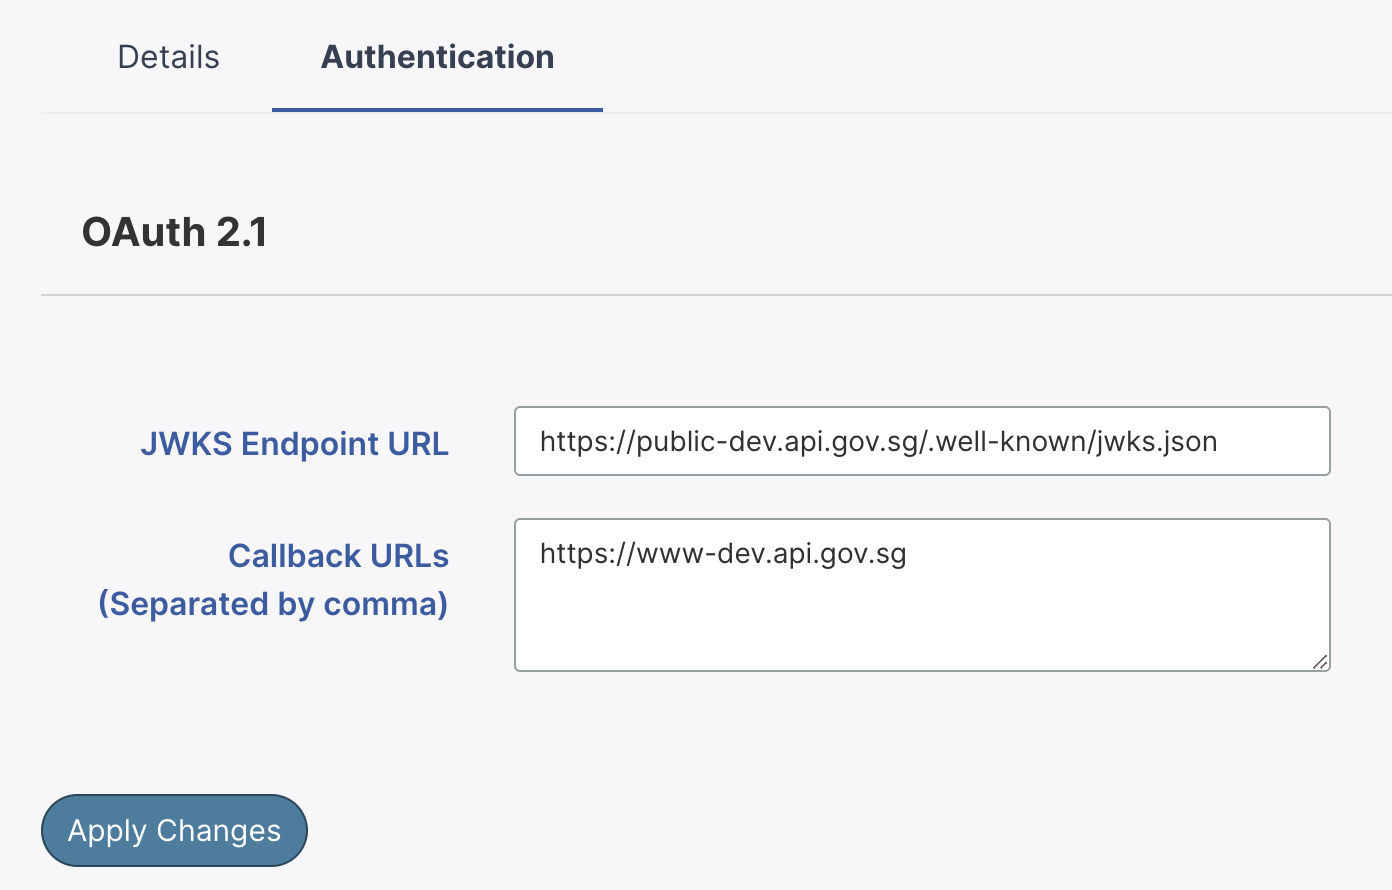
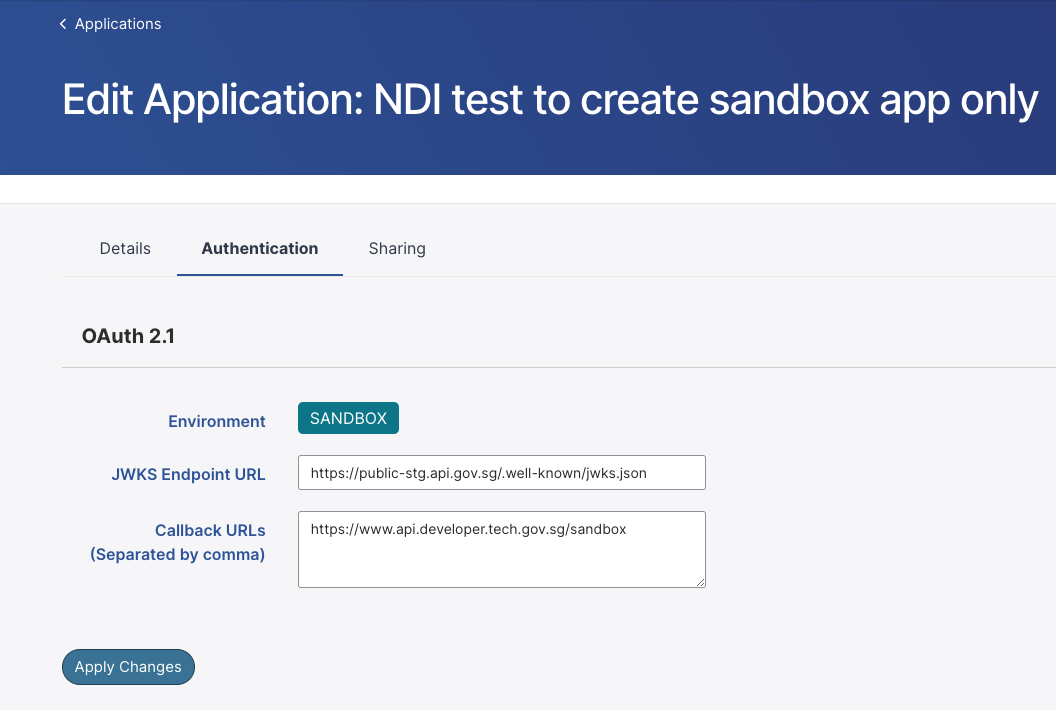
feat(developer): add feature to create app in prod and sandbox env

diff --git a/docs/dev/oauth.md b/docs/dev/oauth.md
@@ -2,30 +2,80 @@
 
 ## Onboard Application with Oauth 2.1
 
-1. **Apps** tab > Select **Application**
-2. View **Oauth 2.1** > Click on the link **Click here to onboard**
+1. **Apps** tab > Click **Application**
+
+2. Search for **Oauth 2.1** > Click on the link **Click here to onboard**
 
 ![Image](./image/oauth/onboard-oauth.png)
 
-4. Add **JWKS endpoint** and **callback URLs** > Click **Submit**
+3. Add **JWKS endpoint** and **callback URLs** > Click **Submit**
 
    - Make sure the app description is not empty.
    - Multiple callback URLs are allowed with the seperation of comma.
 
    ![Image](./image/oauth/onboarding-oauth.png)
 
-Once application is onboard successfully, the portal will redirect back to the application page with the following view in Oauth 2.1. The **login url (example)** are just demonstration on how the login url can be constructed with the supplied callbacks. **It cannot be use for production**.
+Once application is onboarded successfully, the portal will be redirected back to the application page with the following view in Oauth 2.1. The **login url (example)** are just demonstration on how the login url can be constructed with the supplied callbacks. **It cannot be use for production**.
 
 ![Image](./image/oauth/onboarded-oauth.png)
 
 ### Note:
 
-Once the application is onboard to OAuth 2.1 successfully, portal disable the function to delete the application. OAuth 2.1 status needs to be updated as "inactive" before deleting. View **Oauth 2.1** > Click on **Change Status to inactive**. Once the status become inactive, proceed to delete the application.
+Once the application is onboarded to OAuth 2.1 successfully, portal disable the function to delete the application. OAuth 2.1 status needs to be updated as "inactive" before deleting.
 
-## Update Oauth 2.1
+1. Search for **Oauth 2.1** > Click on **Change Status to inactive**.
+2. Once the status become inactive, proceed to delete the application.
+
+## Onboard Application with Oauth 2.1 (Sandbox)
+
+_Update: This feature will be available in end Feb 2023._
+
+SANDBOX is only available in PROD environment and the option will only be provided when onboarding to Oauth 2.1.
+
+1. **Apps** tab > Click **Application**
+
+2. Search for **Oauth 2.1** > Click on the link **Click here to onboard**.
+
+3. Check **sandbox checkbox** > Add **JWKS endpoint** and **callback URLs** > Click **Submit**.
+
+![Image](./image/oauth/sandbox-onboarding.png)
+
+3. Once application is onboarded successfully, the portal will be redirected back to the application page with SANDBOX tag in Oauth 2.1 section.
+
+### After onboarded to SANDBOX, you can create app in PROD with the same appplication.
+
+1. **Apps** tab > Click **Application**.
+
+2. Search for **Oauth 2.1** > Click **Create App in PROD**.
+
+![Image](./image/oauth/sandbox-create-prod.png)
+
+3. Add **JWKS endpoint** and **callback URLs** > uncheck **sandbox checkbox** (default option) > Click **Submit**.
+
+4. Once onboarded to Oauth 2.1 in both SANDBOX and PROD environment, you can toggle between SANDBOX and PROD to view the details and registered ID in **Apps** tab > Select **Application**.
+
+![Image](./image/oauth/sandbox-and-prod-apps.png)
+
+### After onboarded to PROD, you can create app in SANDBOX with the same appplication.
+
+Same steps can be apply as [above](#after-onboarded-to-sandbox). **Create App in SANDBOX** will appear in app > Oauth 2.1 section.
+
+### Note:
+
+OAuth 2.1 SANDBOX and PROD in both SANDBOX and PROD need to be updated as "inactive" before deleting.
+
+1. View **Oauth 2.1** > Click **Change Status to inactive**
+2. Click **Change to Sandbox** > Click **Change Status to inactive**
+3. Once both status become inactive, proceed to delete the application.
+
+## Update JWKS endpoint or callbackURLs
 
 1. **Apps** tab > **Select Application** > Click **Edit Application**
 2. View **Authentication** tab > **Oauth 2.1**
 3. Update **JWKS endpoint** or **callback URLs** > Click **Apply Changes**
 
 ![Image](./image/oauth/update-oauth-info.png)
+
+4. If there are app createed in both SANDBOX and PROD, select either "sandbox" or "prod" > Update **JWKS endpoint** or **callback URLs** > Click **Apply Changes**
+
+![Image](./image/oauth/update-oauth-info-toggle.png)
